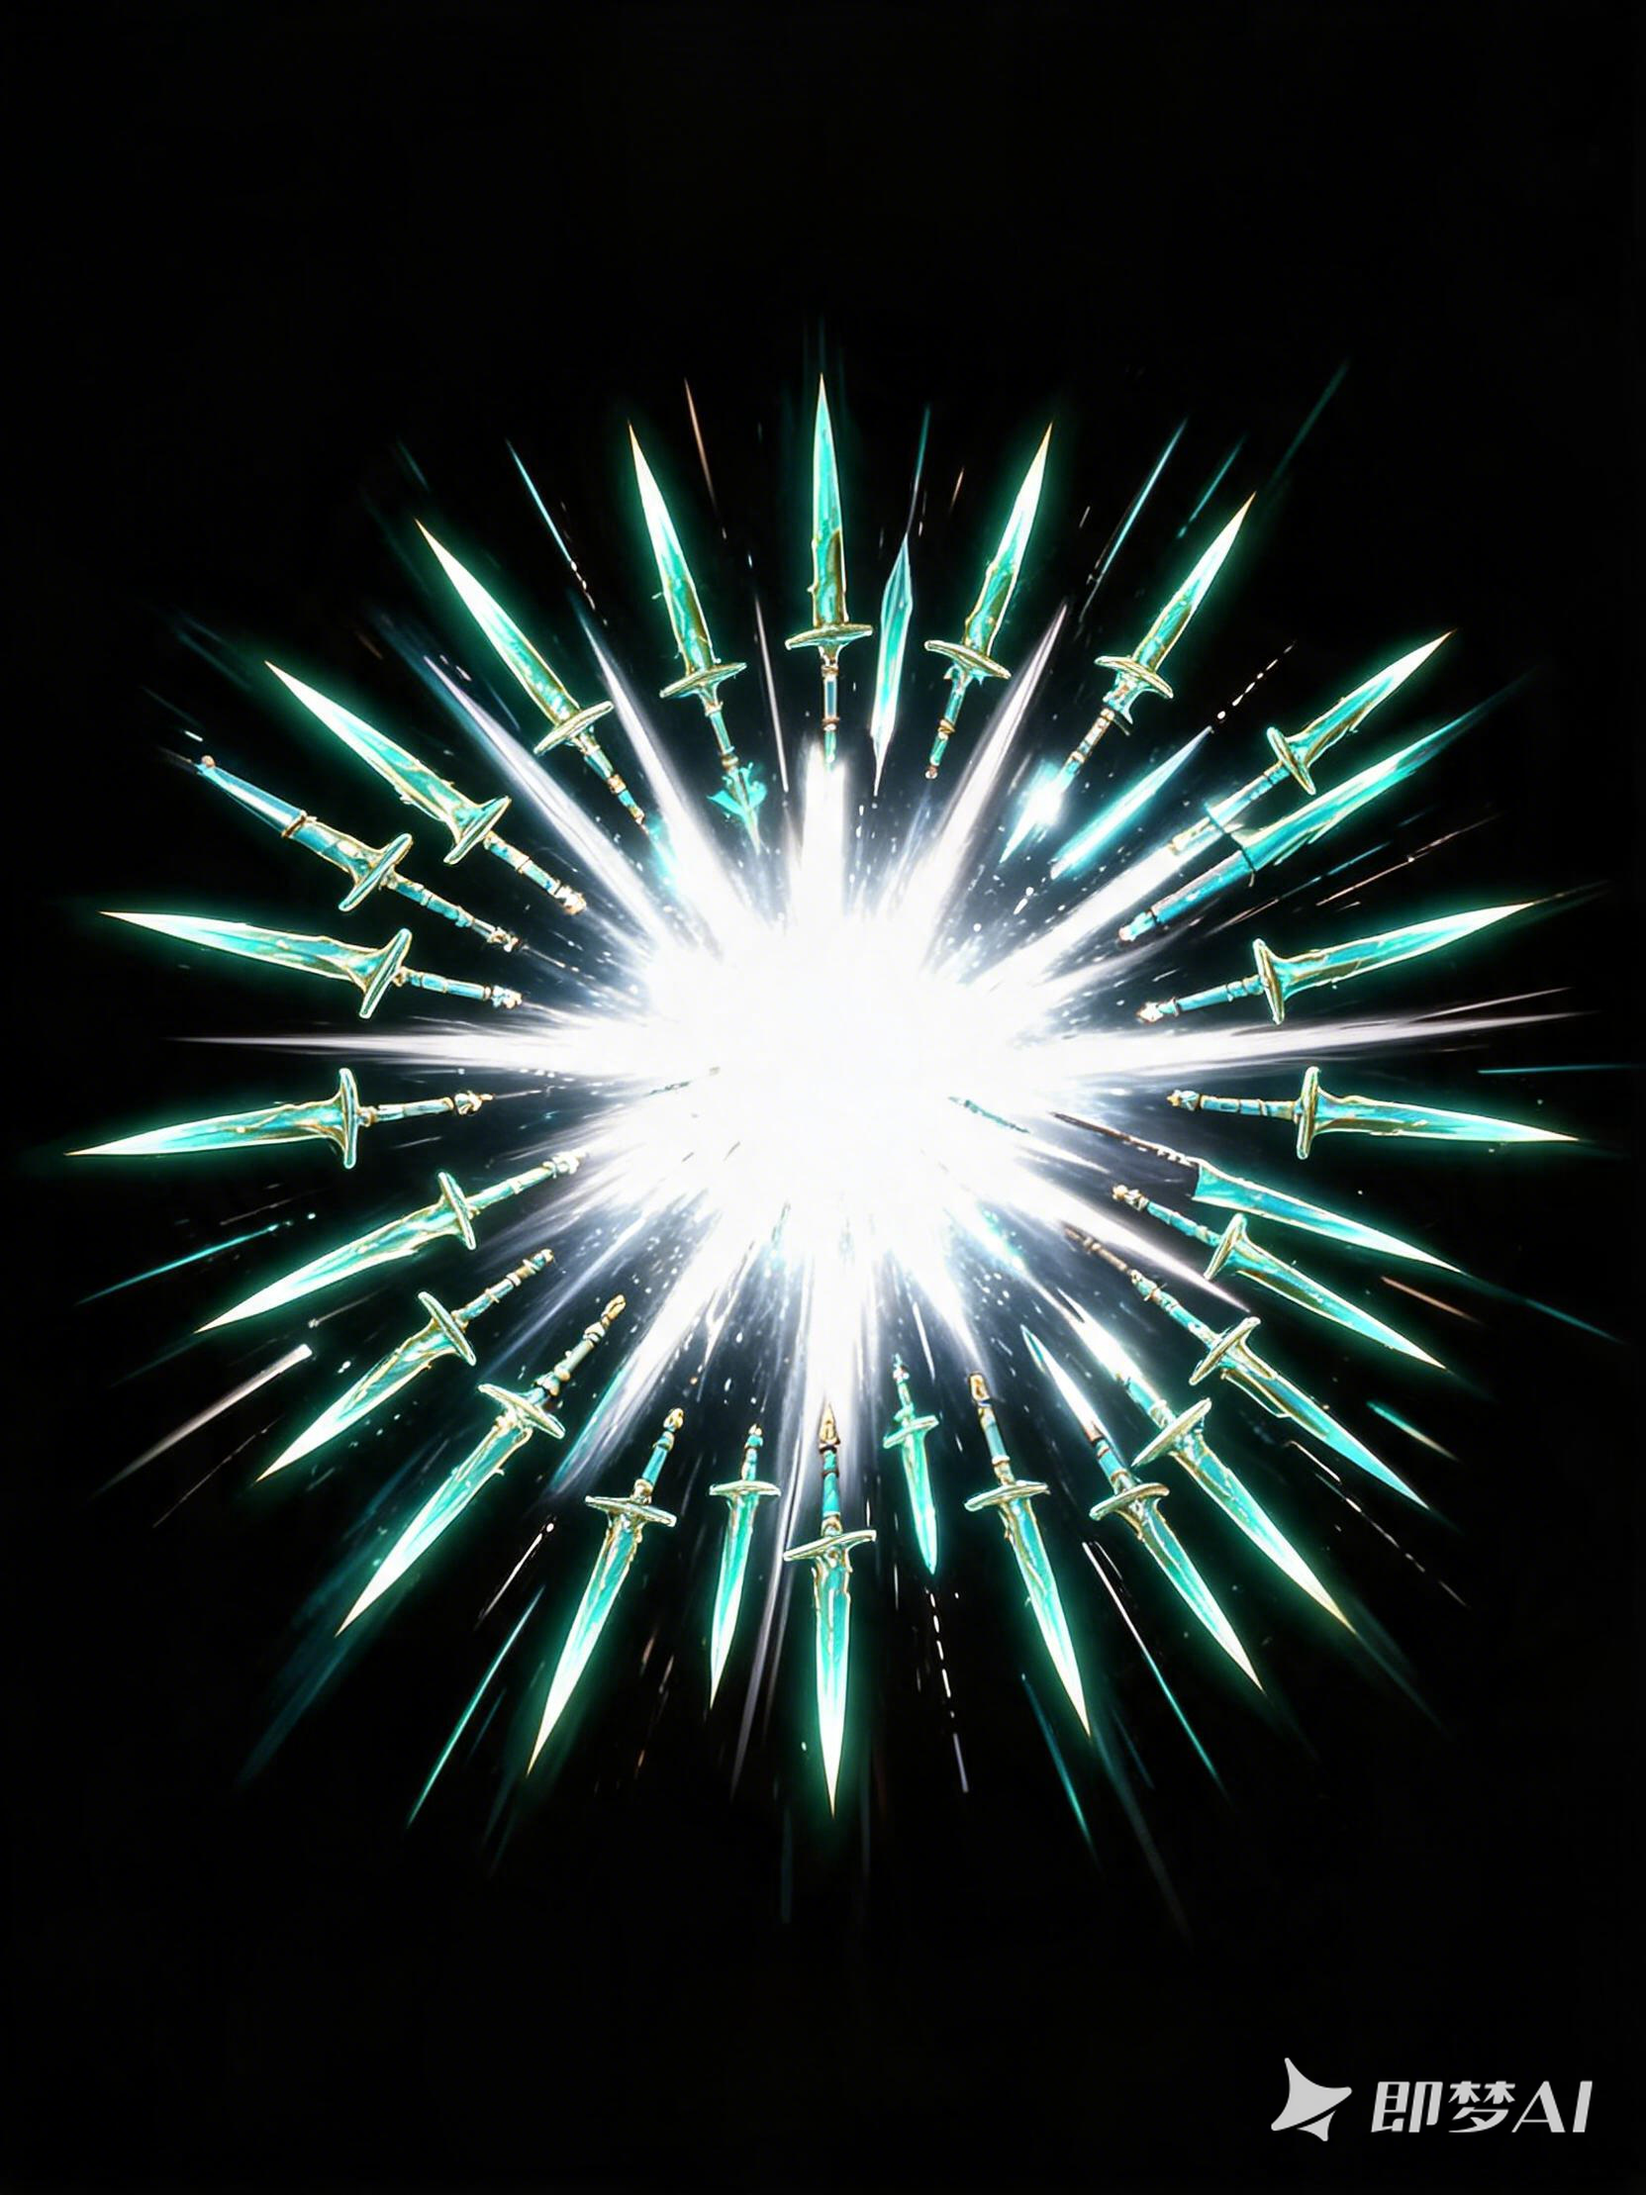
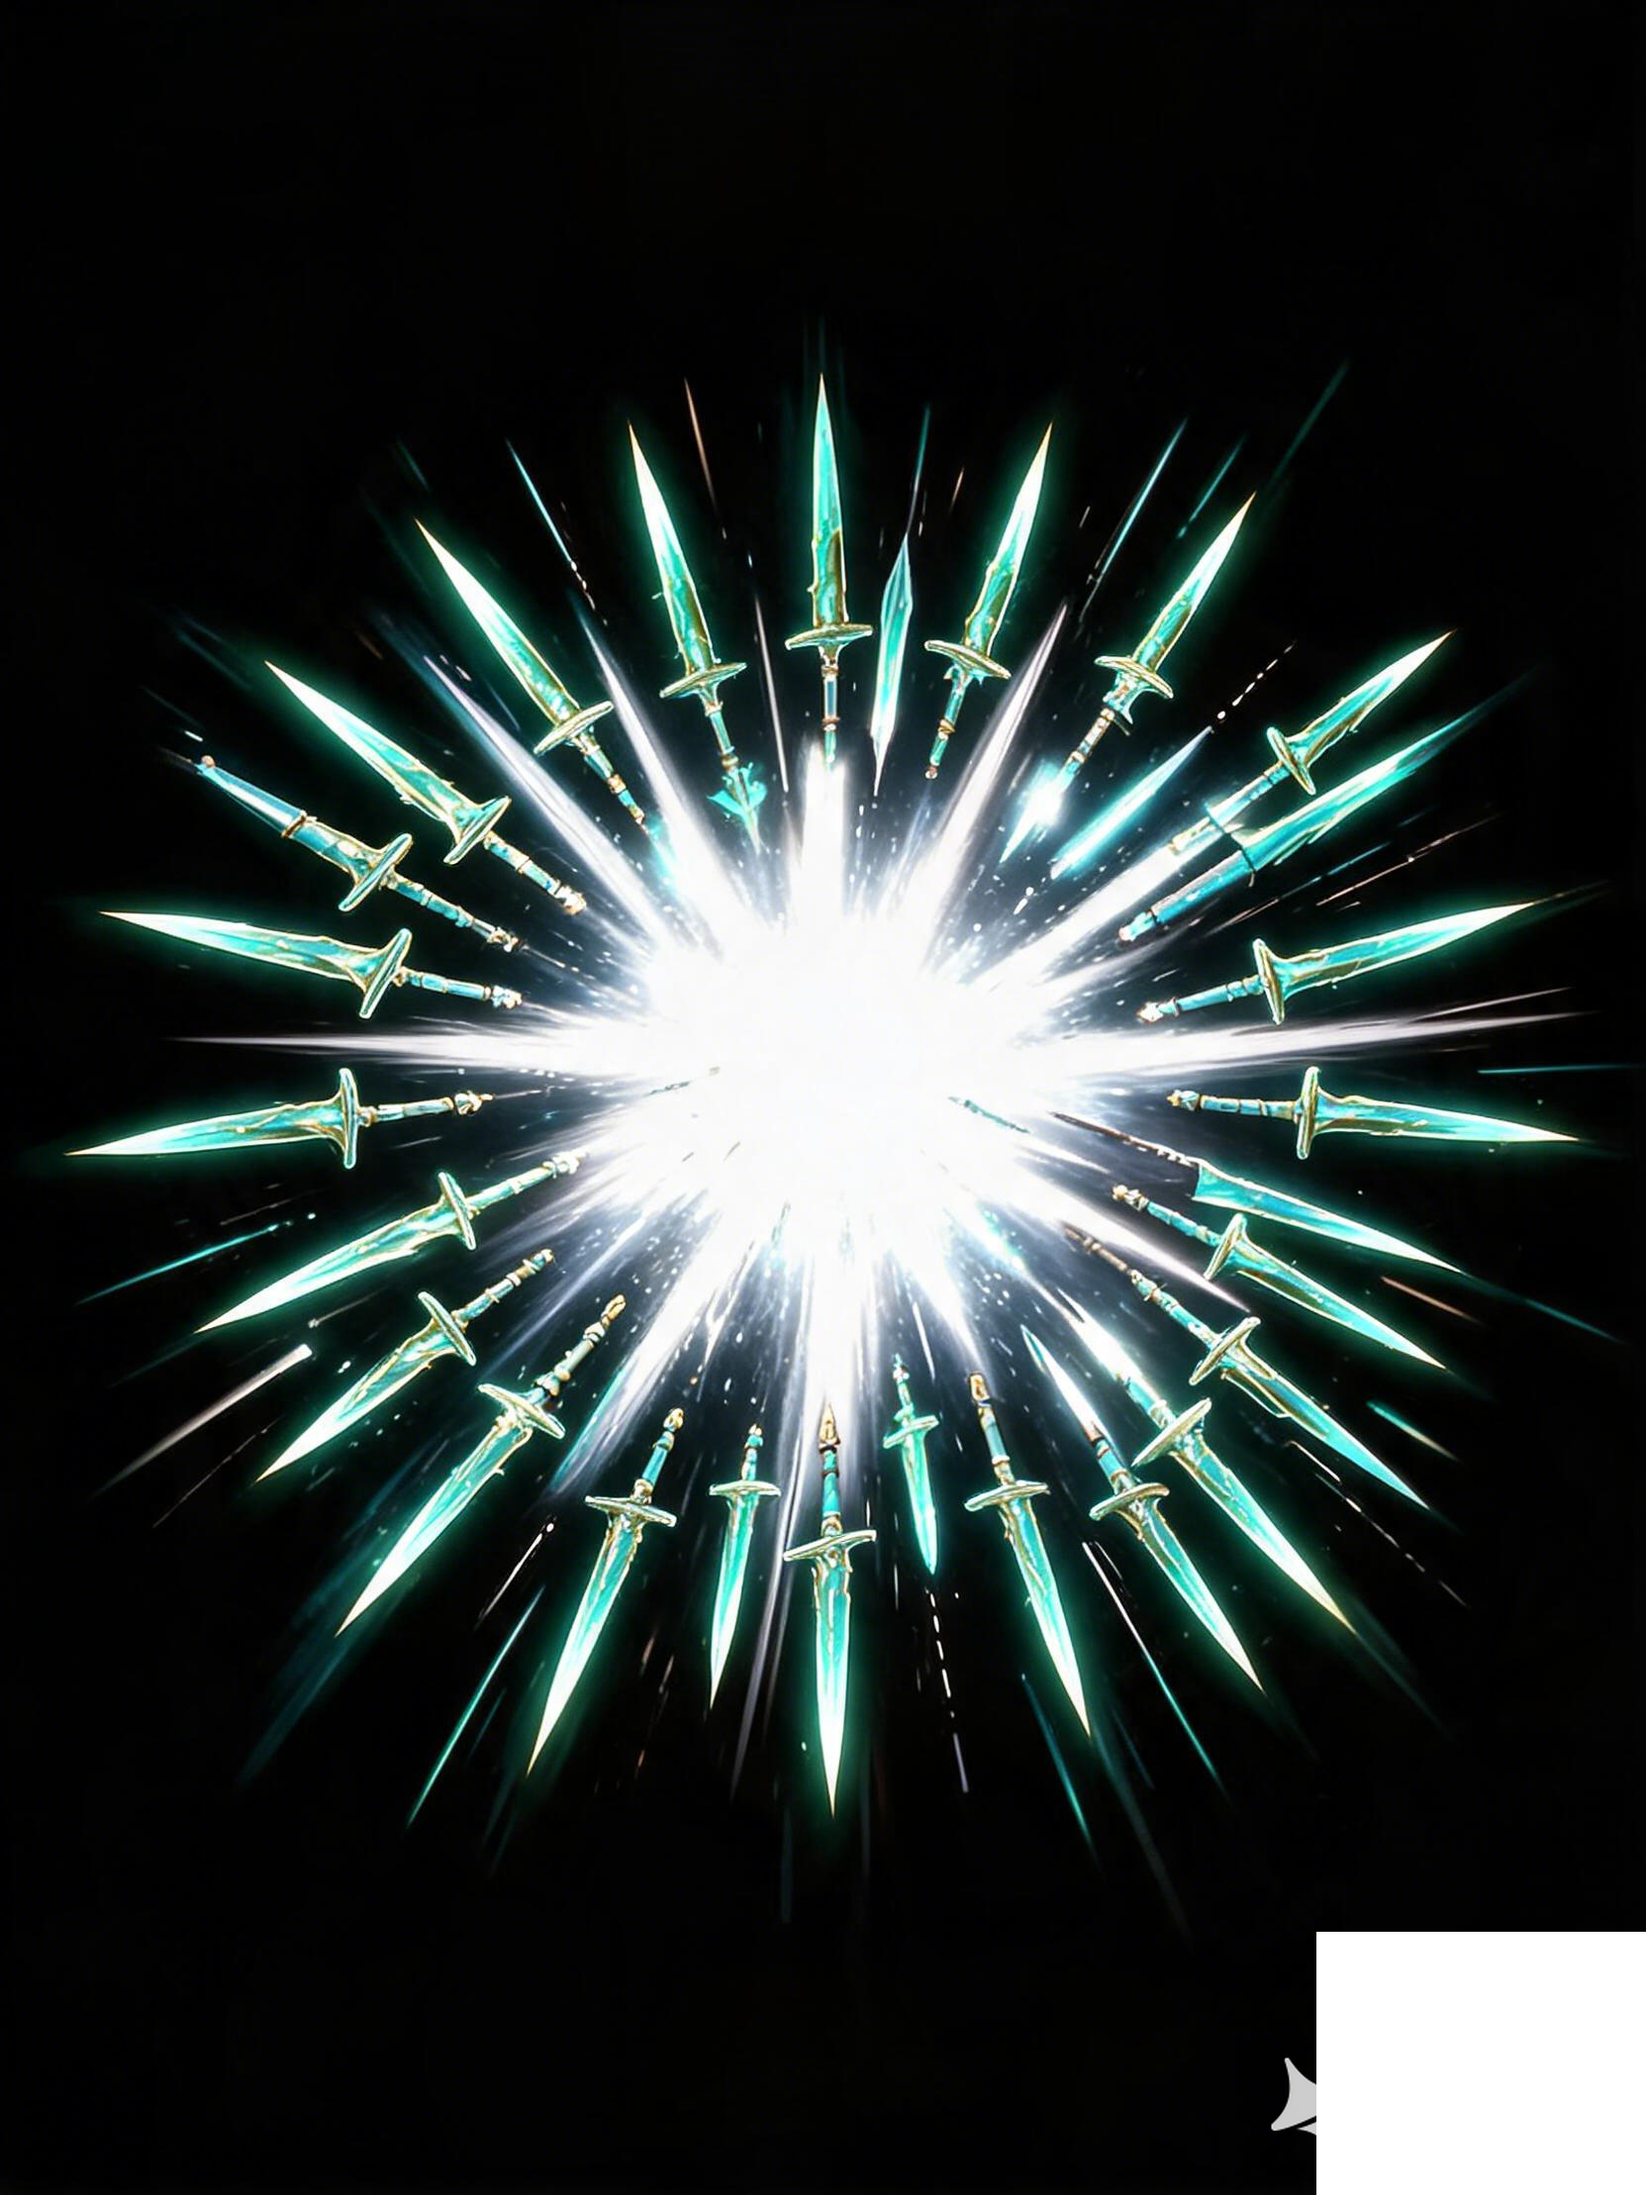
V0.2.9: 用户特效贴图全量接线——特效满屏
- fx_slash → 剑气斩波贴图化(additive随方向旋转, 程序化月牙兜底)
- fx_nova → 万剑归宗/灭字道具新星爆发(缩放脉冲)
- fx_splat → 击杀妖血渍地面贴花(9秒残留, 上限26个FIFO)
- fx_tornado → 剑域罡气龙卷绕体旋转
- fx_tierup → 剑品晋升金色光柱
- 水印已擦除; nova系统支持自定义贴图
- 验收: 10秒 tornado600帧/slash325帧/nova38帧/splat6个, 零报错

Changed region(s): [[0.7974, 0.8711, 1.0, 1.0]]

diff --git a/js/game.js b/js/game.js
@@ -154,6 +154,8 @@ class Game {
     this.monsters = new EntityList(new Pool(() => new Monster()));
     this.bullets = new EntityList(new Pool(() => ({ x: 0, y: 0, vx: 0, vy: 0, life: 0, dmg: 0, r: 6 })));
     this.pickups = new EntityList(new Pool(() => ({ x: 0, y: 0, kind: '', t: 0 })));
+    this.novas = new EntityList(new Pool(() => ({ x: 0, y: 0, t: 0, max: 0.32, size: 320, img: null })));
+    this.splats = new EntityList(new Pool(() => ({ x: 0, y: 0, rot: 0, size: 0, t: 0, life: 9 })));
     this.spawner = new Spawner(this);
     this.cam = { x: this.player.x, y: this.player.y };
     this.time = 0;
@@ -260,6 +262,17 @@ class Game {
       p.t = 0;
     });
   }
+  spawnNova(x, y, size, img) {
+    this.novas.spawn(n => { n.x = x; n.y = y; n.size = size; n.t = n.max = 0.32; n.img = img || null; });
+  }
+  spawnSplat(x, y, size) {
+    if (this.splats.list.length > 26) this.splats.list[0].dead = true; // 上限FIFO
+    this.splats.spawn(d => {
+      d.x = x + rand(-6, 6); d.y = y + rand(-6, 6);
+      d.rot = rand(0, TAU); d.size = size * rand(0.8, 1.15);
+      d.t = 0; d.life = 9;
+    });
+  }
 
   nearestMonster(x, y, maxDist = Infinity) {
     let best = null, bd = maxDist * maxDist;
@@ -319,6 +332,7 @@ class Game {
         FX.flash(0.28, t.color);
         Cam.shake(4, 0.3);
         AudioSys.tierUp();
+        this.spawnNova(this.player.x, this.player.y, 220, 'fx_tierup'); // 晋升金色光柱
       }
       need = CFG.levelup.base + (this.player.level - 1) * CFG.levelup.per;
     }
@@ -375,6 +389,7 @@ class Game {
     Cam.shake(10, 0.4);
     Cam.hitStop(0.08);
     AudioSys.boom();
+    this.spawnNova(this.player.x, this.player.y, 380); // 新星爆发贴图
     for (let i = 0; i < 26; i++) {
       this.spawnSword(this.player.x, this.player.y, (i / 26) * TAU);
     }
@@ -453,6 +468,9 @@ class Game {
         b.x += b.vx * dt; b.y += b.vy * dt; b.life -= dt;
         if (b.life <= 0 || dist2(b.x, b.y, this.player.x, this.player.y) > 950 * 950) b.dead = true;
       }
+      // 光效生命周期
+      for (const n of this.novas.list) { n.t -= dt; if (n.t <= 0) n.dead = true; }
+      for (const d of this.splats.list) { d.t += dt; if (d.t > d.life) d.dead = true; }
       // 道具
       for (const p of this.pickups.list) {
         p.t += dt;
@@ -469,6 +487,7 @@ class Game {
       }
       this.swords.sweep(); this.waves.sweep(); this.bolts.sweep();
       this.monsters.sweep(); this.bullets.sweep(); this.pickups.sweep();
+      this.novas.sweep(); this.splats.sweep();
     }
     // Boss 死亡 → 胜利演出（升级面板冻结世界时也要走到胜利，避免被掉落升级卡住）
     if ((this.state === 'play' || this.state === 'levelup') && this.winTimer > 0) {
@@ -552,6 +571,18 @@ class Game {
     ctx.save();
     ctx.translate(W / 2 - this.cam.x + Cam.ox, H / 2 - this.cam.y + Cam.oy); // 摄像机 + 震屏
     this.ground.draw(ctx, this);
+    // 妖血渍贴花（击杀残留，additive 绿渍）
+    if (Assets.img('fx_splat')) {
+      for (const d of this.splats.list) {
+        ctx.save();
+        ctx.globalCompositeOperation = 'lighter';
+        ctx.globalAlpha = 0.38 * clamp(1 - d.t / d.life, 0, 1);
+        ctx.translate(d.x, d.y); ctx.rotate(d.rot);
+        const img = Assets.img('fx_splat');
+        ctx.drawImage(img, -d.size / 2, -d.size / 2, d.size, d.size);
+        ctx.restore();
+      }
+    }
     for (const p of this.pickups.list) drawPickup(ctx, p);
     for (const m of this.monsters.list) m.draw(ctx, this);
     for (const b of this.bullets.list) {
@@ -563,6 +594,18 @@ class Game {
     if (this.state !== 'over' || this.player.hp > 0) this.player.draw(ctx);
     for (const s of this.swords.list) drawSword(ctx, s);
     Skills.drawWorld(ctx, this);
+    // 新星爆发（万剑归宗/灭字道具）
+    for (const n of this.novas.list) {
+      const img = Assets.img(n.img || 'fx_nova');
+      if (!img) continue;
+      const k = 1 - n.t / n.max;
+      ctx.save();
+      ctx.globalCompositeOperation = 'lighter';
+      ctx.globalAlpha = 0.95 * (1 - k * 0.5);
+      const sz = n.size * (0.35 + k * 0.95);
+      ctx.drawImage(img, n.x - sz / 2, n.y - sz / 2, sz, sz);
+      ctx.restore();
+    }
     FX.draw(ctx);
     ctx.restore();
     Screens.drawUI(this);

diff --git a/js/skills.js b/js/skills.js
@@ -105,6 +105,7 @@ const Skills = {
       const strikes = 4 + 2 * lv;
       const R = 300 * e.areaMul;
       FX.flash(0.18, p.tier.color);
+      game.spawnNova(p.x, p.y, 300); // 新星爆发贴图
       for (let i = 0; i < strikes; i++) {
         const a = rand(0, TAU), d = rand(40, R);
         game.strike(p.x + Math.cos(a) * d, p.y + Math.sin(a) * d, 55 * e.areaMul, (16 + 8 * lv) * e.dmgMul, p.tier.color);
@@ -168,6 +169,17 @@ const Skills = {
       ctx.strokeStyle = p.tier.color; ctx.lineWidth = 1.5;
       ctx.beginPath(); ctx.arc(p.x, p.y, p.auraR, 0, TAU); ctx.stroke();
       ctx.globalAlpha = 1;
+      const tor = Assets.img('fx_tornado'); // 剑气龙卷贴图
+      if (tor) {
+        ctx.save();
+        ctx.globalCompositeOperation = 'lighter';
+        ctx.globalAlpha = 0.5;
+        ctx.translate(p.x, p.y);
+        ctx.rotate(game.time * 1.5);
+        const ts = p.auraR * 2.4;
+        ctx.drawImage(tor, -ts / 2, -ts / 2, ts, ts);
+        ctx.restore();
+      }
     }
     if (p.orbPos) {
       for (const o of p.orbPos) {
@@ -184,6 +196,11 @@ const Skills = {
       }
     }
     for (const w of game.waves.list) {
+      // fx_slash 贴图优先：月牙剑气随方向旋转
+      if (drawSprite(ctx, 'fx_slash', w.x, w.y, {
+        size: w.r * 4.4, angle: w.dir + Math.PI / 4,
+        additive: true, alpha: clamp(w.life / 0.35, 0, 1) * 0.95,
+      })) continue;
       ctx.save();
       ctx.translate(w.x, w.y); ctx.rotate(w.dir);
       ctx.globalAlpha = clamp(w.life / 0.35, 0, 1) * 0.9;

diff --git a/js/entities.js b/js/entities.js
@@ -432,6 +432,7 @@ class Monster {
     if (this.dead) return;
     this.dead = true;
     game.addKill(this);
+    game.spawnSplat(this.x, this.y, this.boss ? 260 : this.elite ? 180 : 95); // 妖血渍贴花
     FX.soul(this.x, this.y, game.player, this.boss ? 18 : this.elite ? 10 : 4);
     FX.spark(this.x, this.y, '#a8e6ff', 12, 260);
     if (this.elite) { // 斩妖将：掉宝 + 直升小半级
